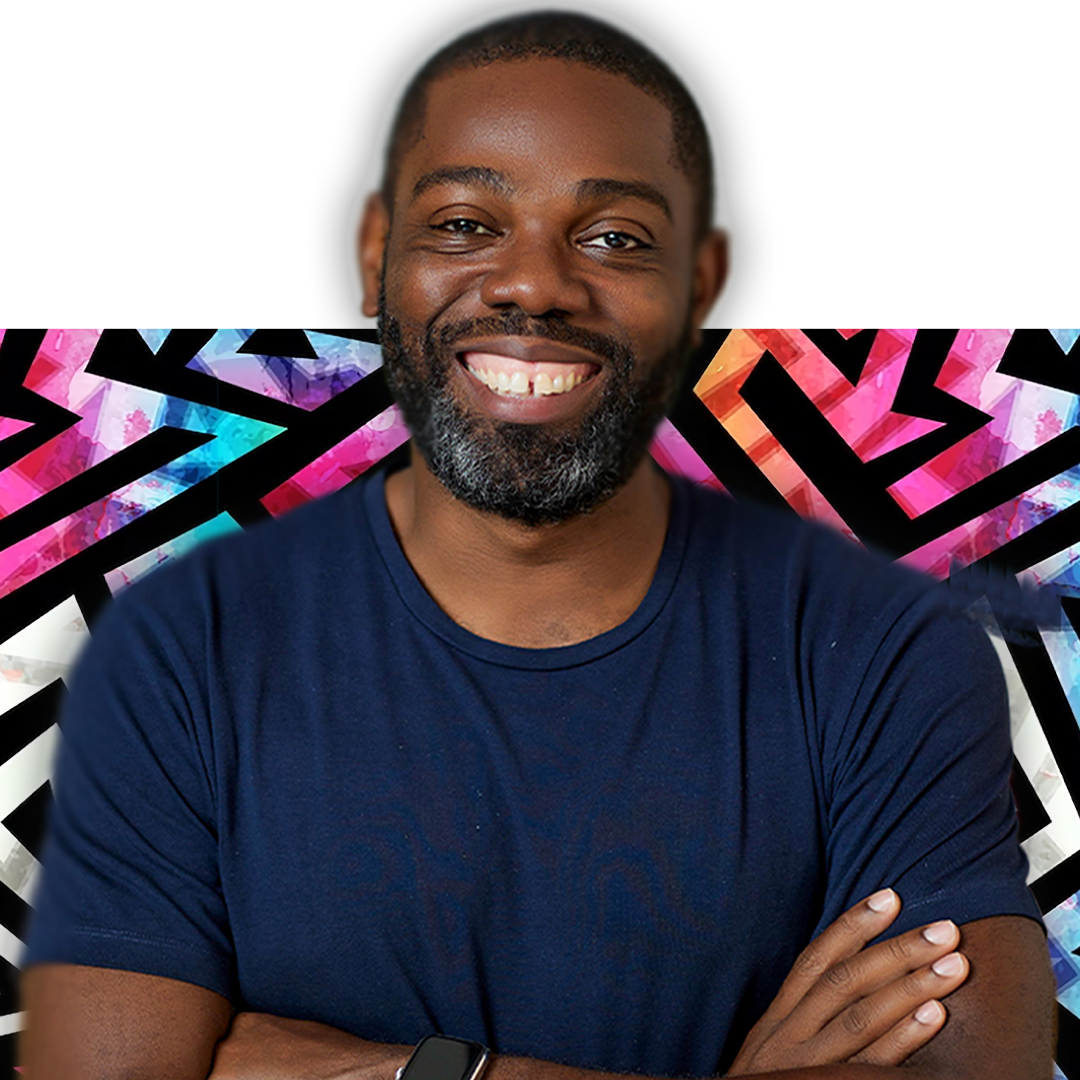
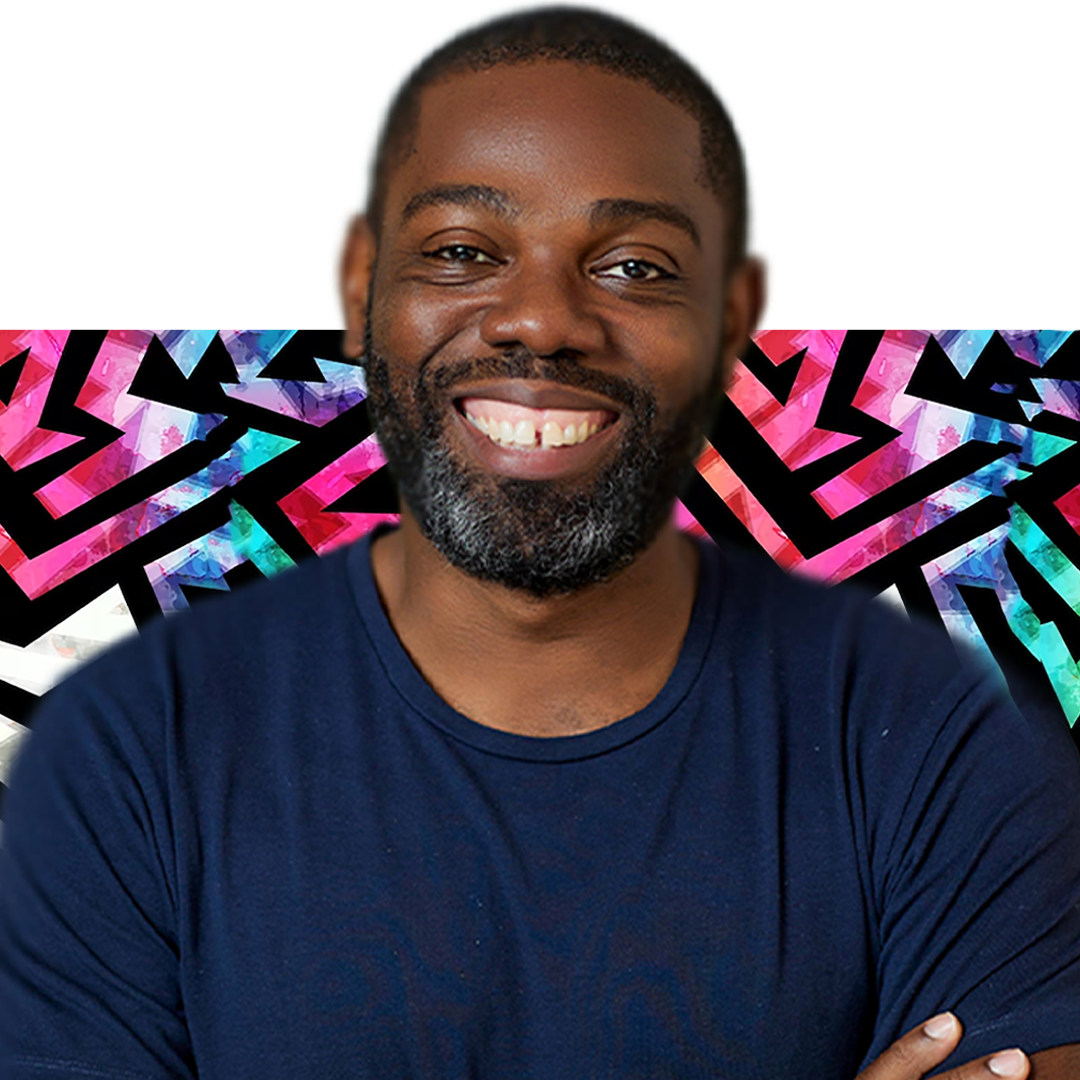
changed speakers image

diff --git a/components/TimelineSection.tsx b/components/TimelineSection.tsx
@@ -77,7 +77,19 @@ const speakers2026 = [
     name: "Thiago De Freitas",
     role: "Group CEO",
     org: "OV Entertainment",
-    img: "/speakers/thiago-freitas.png",
+    img: "/speakers/thiago-de-freitas.png",
+  },
+  {
+    name: "Chris Diafouka",
+    role: "Gaming Marketing Specialist",
+    org: "Redbull",
+    img: "/speakers/chris-diafouka.png",
+  },
+  {
+    name: "Mickael Newton",
+    role: "Social Impact Manager",
+    org: "Ubisoft",
+    img: "/speakers/mickael-newton.png",
   },
 ];
 
@@ -196,7 +208,7 @@ const years: Record<string, YearData> = {
         date: "19th June 2026 Friday",
         venue: "National Theatre, Lagos",
         theme: "PLAY WITHOUT BORDERS",
-        img: "/images/day-2026.png",
+        img: "/images/day-2026-2.png",
         schedule: [
           { time: "08:30:00", title: "Arrivals + Registration", speakers: "Getting settled in venue" },
           { time: "09:15:00", title: "Setting the Scene + ice breaker", speakers: "Setting the Scene + ice breaker" },
@@ -245,7 +257,7 @@ const years: Record<string, YearData> = {
         date: "20th June 2025 Friday",
         venue: "Balmoral Convention Center, Lagos",
         theme: "TALKS AND CONFERENCING",
-        img: "/images/day-2025.png",
+        img: "/images/day-2025-2.png",
         schedule: [
           { time: "09:30:00", title: "Welcome Address", speakers: "Bukola Akingbade, Currator, Lagos Games Week" },
           { time: "10:30:00", title: "Message from our Sponsor", speakers: "Opening Address: French Embassy in Nigeria" },
@@ -264,7 +276,7 @@ const years: Record<string, YearData> = {
         date: "21st June 2025 Saturday",
         venue: "xxx",
         theme: "ESPORT FINALS",
-        img: "/images/day-2025.png",
+        img: "/images/day-2025-3.png",
         schedule: [
           { time: "Morning", title: "Gamr X", speakers: "Season 4" },
           { time: "Afternoon", title: "Gamr X", speakers: "Season 4" },
@@ -295,7 +307,7 @@ const years: Record<string, YearData> = {
         date: "3rd May 2024 Friday",
         venue: "Landmark Event Center, Lagos",
         theme: "TALKS AND CONFERENCING",
-        img: "/images/day-2024.png",
+        img: "/images/day-2024-2.png",
         schedule: [
           { time: "09:15:00", title: "Keynote Address: The Future of African Gaming: Challenges or Opportunities", speakers: "Hugo Obi, Founder, Maliyo Games" },
           { time: "09:30:00", title: "Panel Session: The Future of African Gaming: Challenges or Opportunities", speakers: "Hugo Obi (Maliyo Games), Tolu Olowofoyeku (Kugali Media), David Olamide (Dimension11), Oscar Michael (AfricaComicade), Moderator: Oluseye Soyede-Johnson" },
@@ -316,7 +328,7 @@ const years: Record<string, YearData> = {
         date: "4th May 2024 Saturday",
         venue: "xxx",
         theme: "The XHODUS WAY - GAMR X3",
-        img: "/images/day-2024.png",
+        img: "/images/day-2024-3.png",
         schedule: [
           { time: "Morning", title: "Gamr X", speakers: "Season 3" },
           { time: "Afternoon", title: "Gamr X", speakers: "Season 3" },
